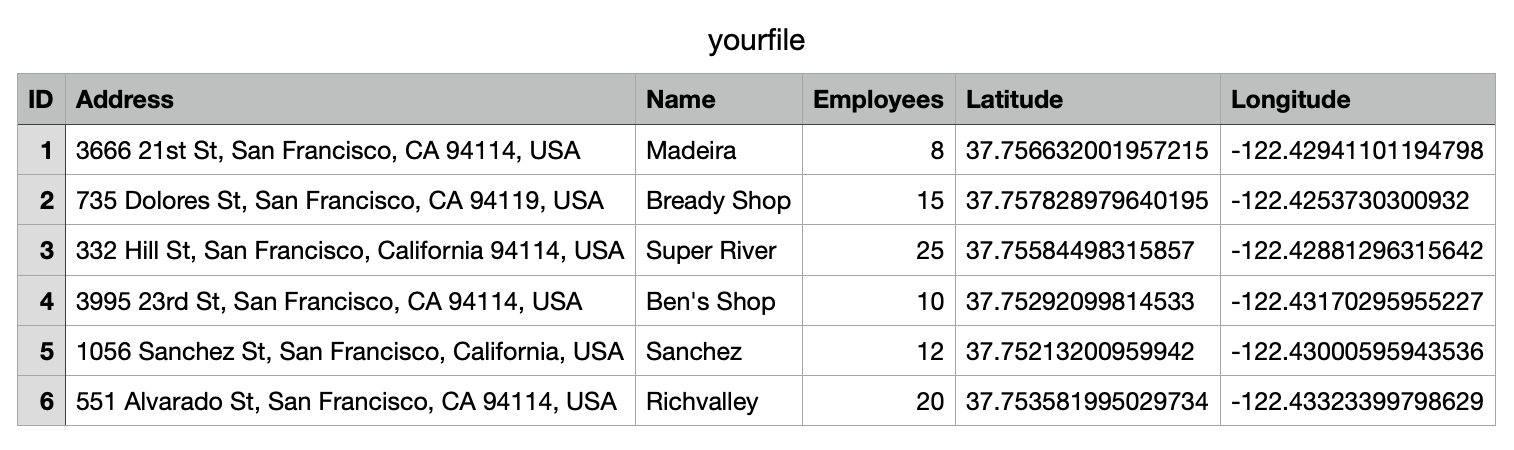
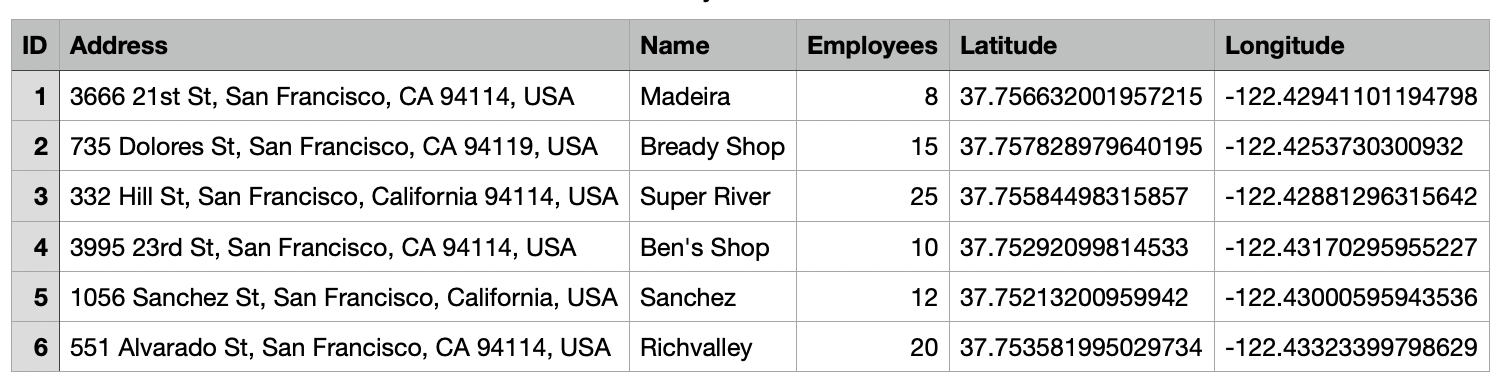
edit 2.1

diff --git a/README.md b/README.md
@@ -1,7 +1,7 @@
 <a id="anchor"></a>
 # Super Geocoder
 
-####Geography Web App: 
+#### Geography Web App: 
 
 
 Пользователь загружает CSV-файл в котором есть колонка «Address/address» с адресами мест. Серверная часть приложения - Python скрипт читает файл и добавляет значения широты и долготы к каждому из мест, которые вычисляются из колонки «Address/address».
@@ -29,7 +29,7 @@ __Всплывающее окно с указанием адреса.__
 <img width="1423" alt="screen4" src="https://user-images.githubusercontent.com/97599612/173184175-03287e75-9c65-4e9b-b756-ed16f45c657e.png">
 
 __Скачанный CSV файл доступен в папке Загрузок.__
-<img width="757" alt="screen5" src="https://user-images.githubusercontent.com/97599612/173184177-680d63b1-61de-45ec-aee7-61d6ea5e00bd.png">
+<img width="752" alt="screen5" src="https://user-images.githubusercontent.com/97599612/173184803-d3760f87-0c88-42f6-a90a-f088a3501acb.png">
 
 
 [Вверх](#anchor)
